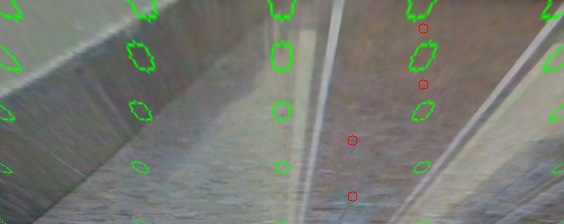
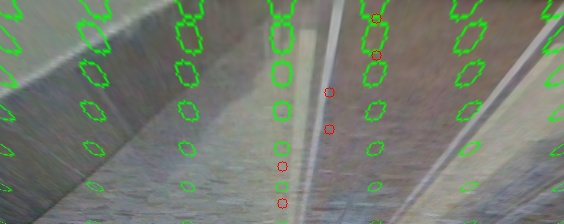
Added geom and cam code to test

diff --git a/processing_unit.py b/processing_unit.py
@@ -31,8 +31,8 @@ class GeomPU:
         grid_points = np.zeros((4,self._num_x*self._num_y))
         grid_points[3,:] = 1.0
         for a in range(self._num_x * self._num_y):
-            i = a//num_y
-            j = a%num_y
+            i = a//self._num_y
+            j = a%self._num_y
             x = self._xw + self._length_x - ((i/(self._num_x-1))*self._length_x)
             y = self._yw - ((j/(self._num_y-1))*self._length_y)
             grid_points[0, a] = x
@@ -49,6 +49,7 @@ class GeomPU:
     def ccs_to_img_coord(self, X_ccs):
         """
         X_ccs: 4xN matrix contatining points in CCS
+        returns 2xN matrix containing image coordinates
         """
         Pimg_coord = np.matmul(self._K, X_ccs) 
         Pimg_coord = Pimg_coord[:2,:]/Pimg_coord[2,:]
@@ -64,9 +65,45 @@ class GeomPU:
         q_y = q%self._nqy
         return np.array([q_x, q_y])
 
+    def evaluate_grid(self, BEV_img):
+        h,w,c = BEV_img.shape
+        delta_x = np.int(h/self._nqx)
+        delta_y = np.int(w/self._nqy)
+        throttle_map = np.zeros((self._num_x))
+        trajectory_BEV = np.zeros((2,self._num_x))
+        trajectory_img = np.zeros((2,self._num_x))
+
+        for i in range(self._num_x):
+            # get average coordinates for each row
+            cands = 0
+            x_mid_BEV = 0
+            y_mid_BEV = 0
+            x_mid_img = 0
+            y_mid_img = 0
+            for j in range(self._num_y):
+                value = BEV_img[i*delta_x, j*delta_y]
+                if value == self._INDEX_FLOOR:
+                    cands = cands + 1
+                    throttle_map[i] = throttle_map[i] + 1
+                    x_mid_BEV = x_mid_BEV + i*delta_x
+                    y_mid_BEV = y_mid_BEV + j*delta_y
+                    # img points 
+                    index_in_grid_matrix = (i*self._num_y) + j
+                    point = self._grid_points[:,index_in_grid_matrix]
+                    x_mid_img = x_mid_img + point[0]
+                    y_mid_img = y_mid_img + point[1]
+            
+            trajectory_BEV[0,i] = x_mid_BEV/cands
+            trajectory_BEV[1,i] = y_mid_BEV/cands
+            trajectory_img[0,i] = x_mid_img/cands
+            trajectory_img[1,i] = y_mid_img/cands
+        
+        return throttle_map, trajectory_BEV, trajectory_img
+
+
     def get_square_points_img(self, qs):
         """
-        AUX/DEBUG function to draw overlays
+        SQUARES MODE Evaluates squares instead of grid points
         qs : tuple containing (q_x, q_y)
         returns the four image points corresponding to the square's corners 2x4
         """
@@ -79,6 +116,9 @@ class GeomPU:
         return square_corners
 
     def get_squares(self, BEV_img):
+        """
+        SQUARES MODE 
+        """
         squares = []
         h,w,c = BEV_img.shape
         delta_x = np.int(h/self._nqx)
@@ -140,4 +180,4 @@ class GeomPU:
 
 class ProcessingUnit:
     def __init__(self):
-        
+        print("")

diff --git a/trajectory/geom.py b/trajectory/geom.py
@@ -91,8 +91,8 @@ img = cv2.imread(img_path)
 xp = np.zeros((2,4))
 colors = [(255,255,255),(255,0,0),(0,255,0),(0,0,255)]
 
-num_x = 5
-num_y = 5
+num_x = 7
+num_y = 7
 grid_points = np.zeros((4,num_x*num_y))
 grid_points[3,:] = 1.0
 for a in range(num_x * num_y):
@@ -209,6 +209,61 @@ for c in candidates_each_row:
     # theres num_x-1 of these
     if(c[0]!=0.0):
         cv2.circle(img,(int(c[0]), int(c[1])), 7, (0,0,255))
-cv2.imshow('asdffdf', img)
+# cv2.imshow('asdffdf', img)
+# cv2.waitKey(0)
+# cv2.imwrite("./../imgs/grid_img_trajectory.jpeg", img)
+
+
+
+h,w,c = BEV_img.shape
+delta_x = np.int(h/num_x-1)
+delta_y = np.int(w/num_y-1)
+throttle_map = np.zeros((num_x))
+trajectory_BEV = np.zeros((2,num_x))
+trajectory_img = np.zeros((2,num_x))
+occ = np.ones((num_x,num_y))
+occ[0,0] = 0
+occ[0,1] = 0
+occ[1,0] = 0
+occ[2,0] = 0
+occ[3,0] = 0
+occ[1,1] = 0
+
+for i in range(num_x):
+    # get average coordinates for each row
+    cands = 0
+    x_mid_BEV = 0
+    y_mid_BEV = 0
+    x_mid_img = 0
+    y_mid_img = 0
+    for j in range(num_y):
+        value = BEV_img[i*delta_x, j*delta_y]
+        if occ[i,j]==1.0:
+            cands = cands + 1
+            throttle_map[i] = throttle_map[i] + 1
+            x_mid_BEV = x_mid_BEV + i*delta_x
+            y_mid_BEV = y_mid_BEV + j*delta_y
+            # img points 
+            index_in_grid_matrix = (i*num_y) + j
+            point = grid_points[:,index_in_grid_matrix]
+            x_mid_img = x_mid_img + point[0]
+            y_mid_img = y_mid_img + point[1]
+    
+    trajectory_BEV[0,i] = x_mid_BEV/cands
+    trajectory_BEV[1,i] = y_mid_BEV/cands
+    trajectory_img[0,i] = x_mid_img/cands
+    trajectory_img[1,i] = y_mid_img/cands
+
+
+print("Trajectory_BEV")
+print(trajectory_BEV)
+print("Trajectory Image")
+print(trajectory_img)
+print("Trhottle map")
+print(throttle_map)
+for i in range(num_x):
+    # theres num_x-1 of these
+    if(throttle_map[i]!=0.0):
+        cv2.circle(img,(int(trajectory_BEV[0,i]), int(trajectory_BEV[1,i])), 7, (0,0,255))
+cv2.imshow('asdffdf', BEV_img)
 cv2.waitKey(0)
-cv2.imwrite("./../imgs/grid_img_trajectory.jpeg", img)

diff --git a/sspytorch/prova_def_2.py b/sspytorch/prova_def_2.py
@@ -10,27 +10,31 @@ from models.models import C1DeepSup
 import models.mobilenet as mobilenet
 from terri_utils import img_transform
 from terri_utils import round2nearest_multiple
+from lib.utils import as_numpy
 # For DC motor
 from adafruit_servokit import ServoKit # seteja el pinout a 1000 (GPIO.TEGRA_SOC)
 import RPi.GPIO as GPIO
-
+from camera import Camera
+from processing_unit import GeomPU
 # For csi camera
 from jetcam.csi_camera import CSICamera
 # For Servo motor
 import board
 import busio
 
-print("Aneu desconectant")
-for j in range(40):
-    print(40-j)
-    time.sleep(1)
+# print("Aneu desconectant")
+# for j in range(40):
+#     print(40-j)
+#     time.sleep(1)
 
 torch.cuda.set_device(0)
-camera = CSICamera(width=640, height=480)
 
-#print("Camera initialized")
-image = camera.read()
-cv2.imwrite('/home/dlinano/Pictures/pic1.jpeg', image)
+cam = Camera()
+grid_params = {'xw':0.6, 'yw':+0.25, 'length_x':1.0, 'length_y':0.50, 'num_x':7,'num_y':7}
+geompu = GeomPU(cam.get_K(), cam.get_Rt(),grid_params)
+
+image = cam.get_frame_cv2()
+# cv2.imwrite('/home/dlinano/Pictures/pic1.jpeg', image)
 image = cv2.cvtColor(image, cv2.COLOR_BGR2RGB)
 img = Image.fromarray(image)
 ori_width, ori_height = img.size
@@ -55,9 +59,15 @@ with torch.no_grad():
                 torch.load(dec_weights, map_location='cuda:0'), strict=False)
     net_encoder = net_encoder.cuda(0)
     net_decoder = net_decoder.cuda(0)
-    for i in range(0,2):
-        auxi = net_encoder(img.cuda(0))
-        pred = net_decoder(auxi, segSize=(480, 640))
+    auxi = net_encoder(img.cuda(0))
+    pred = net_decoder(auxi, segSize=(480, 640))
+    scores = torch.zeros(1, 150, 480, 640).cuda(0) # 150 num class
+    scores = scores + pred/5
+    _, pred = torch.max(scores, dim=1)
+    pred = as_numpy(pred.squeeze(0).cpu())
+
+
+
 
 
 output_pin = "GPIO_PE6"

diff --git a/camera.py b/camera.py
@@ -31,7 +31,6 @@ def eulerAnglesToRotationMatrix(theta):
 class Camera:
 
     def __init__(self, height = 480, width = 640):
-        
         # Intrinsics results obtained from calib module
         self._K = np.array([[676.74,0,317.4],[0,863.29,252.459],[0,0,1]])
         # Extrinisics
@@ -44,6 +43,9 @@ class Camera:
 
     def get_Rt(self):
         return self._Rt
+    
+    def get_K(self):
+        return self._K
 
     def get_frame_cv2(self):
         """
